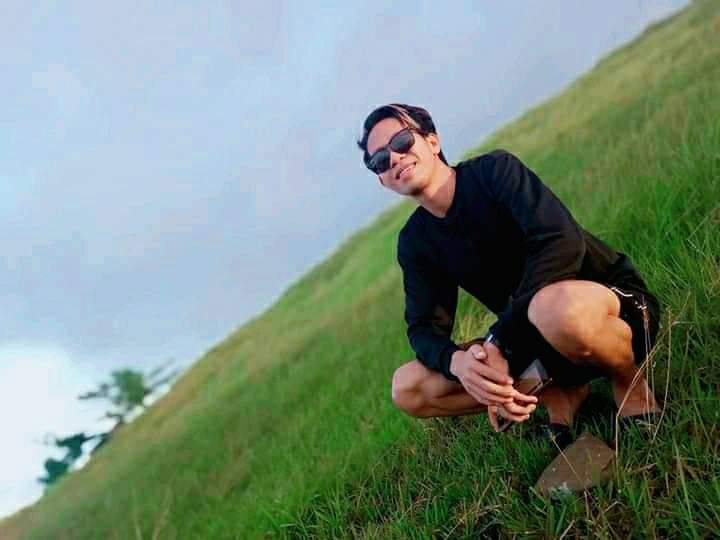
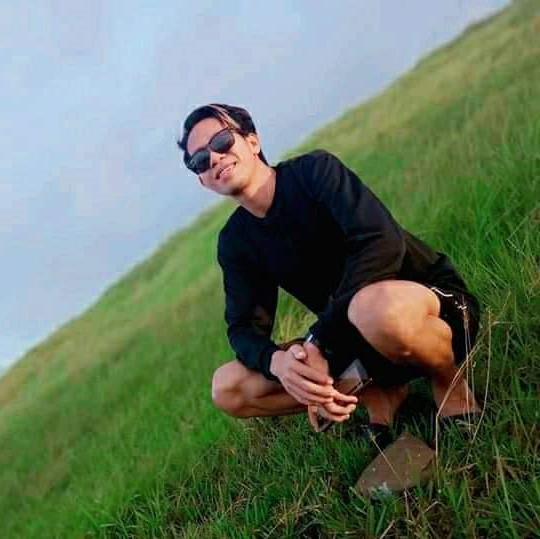
edit some colors and square pics

diff --git a/AgymDB/resources/views/customer/customer_profile.blade.php b/AgymDB/resources/views/customer/customer_profile.blade.php
@@ -31,7 +31,7 @@
 <!-- ======= Hero Section ======= -->
 <section id="hero" class="d-flex align-items-center" style="height: 300px;">
     @if ($customer->photo != 'default-profile.png')
-         <img src="/storage/customers/{{$customer->photo}}" class="container-fluid" alt="Responsive image">
+         <img src="/storage/customers/{{$customer->photo}}" class="img-responsive" width="100%" alt="Responsive image">
     @else
         <img src="{{ asset('images/gym-guy.jpg') }}" class="container-fluid" alt="Responsive image">
     @endif
@@ -43,7 +43,7 @@
 <div id="main">
         <div class="row mx-4">
             <div class=" col-2 mr-4 " style="height: 256px; margin-top:-7%; ">
-                <img class="rounded-circle z-depth-2 img-fluid mb-4" alt="70x70" src="/storage/customers/{{$customer->photo}}" data-holder-rendered="true">
+                <img class="rounded-circle z-depth-2 mb-4 img-responsive" width="100%" alt="70x70" src="/storage/customers/{{$customer->photo}}" data-holder-rendered="true">
                 <h2>{{$customer->fname}} {{$customer->lname}}</h2>
             </div>
 
@@ -194,13 +194,13 @@
                 <div class=" col-9 my-4" style="position: relative;">
                     <div class="card shadow mb-4">
                         <div class="card-header py-3">
-                            <h6 class="m-0 font-weight-bold text-primary">Remarks</h6>
+                            <h6 class="m-0 font-weight-bold text-primary" >Remarks</h6>
                         </div>
                     <div class="card-body " id="accordion">
                         @php $count = 0; @endphp
                         @forEach($remarks as $remark)
 
-                            <div class="card-header" id="heading{{$remark->id}}" data-toggle="collapse" data-target="#collapse{{$remark->id}}" aria-expanded="true" aria-controls="collapse{{$remark->id}}" style="background-color: #2C2E43; border-color:white; border-width: 4px;" >
+                            <div class="card-header" id="heading{{$remark->id}}" data-toggle="collapse" data-target="#collapse{{$remark->id}}" aria-expanded="true" aria-controls="collapse{{$remark->id}}" style="background-color: #1B663E; border-color:white; border-width: 4px;" >
                                 <p class="mb-0">
                                     <button class="btn text-white" data-toggle="collapse" data-target="#collapse{{$remark->id}}" aria-expanded="true" aria-controls="collapse{{$remark->id}}" >
                                         {{ \Carbon\Carbon::parse($remark->remark_date)->format('M d, Y @ h:i A')}}

diff --git a/AgymDB/resources/views/layouts/cust-app.blade.php b/AgymDB/resources/views/layouts/cust-app.blade.php
@@ -14,6 +14,8 @@
 
 
         <!-- Styles -->
+        
+
         <link href="{{ asset('vendor/bootstrap/css/bootstrap.min.css') }}" rel="stylesheet">
         <link href="{{ asset('vendor/icofont/icofont.min.css') }}" rel="stylesheet">
         <link href="{{ asset('vendor/boxicons/css/boxicons.min.css') }}" rel="stylesheet">
